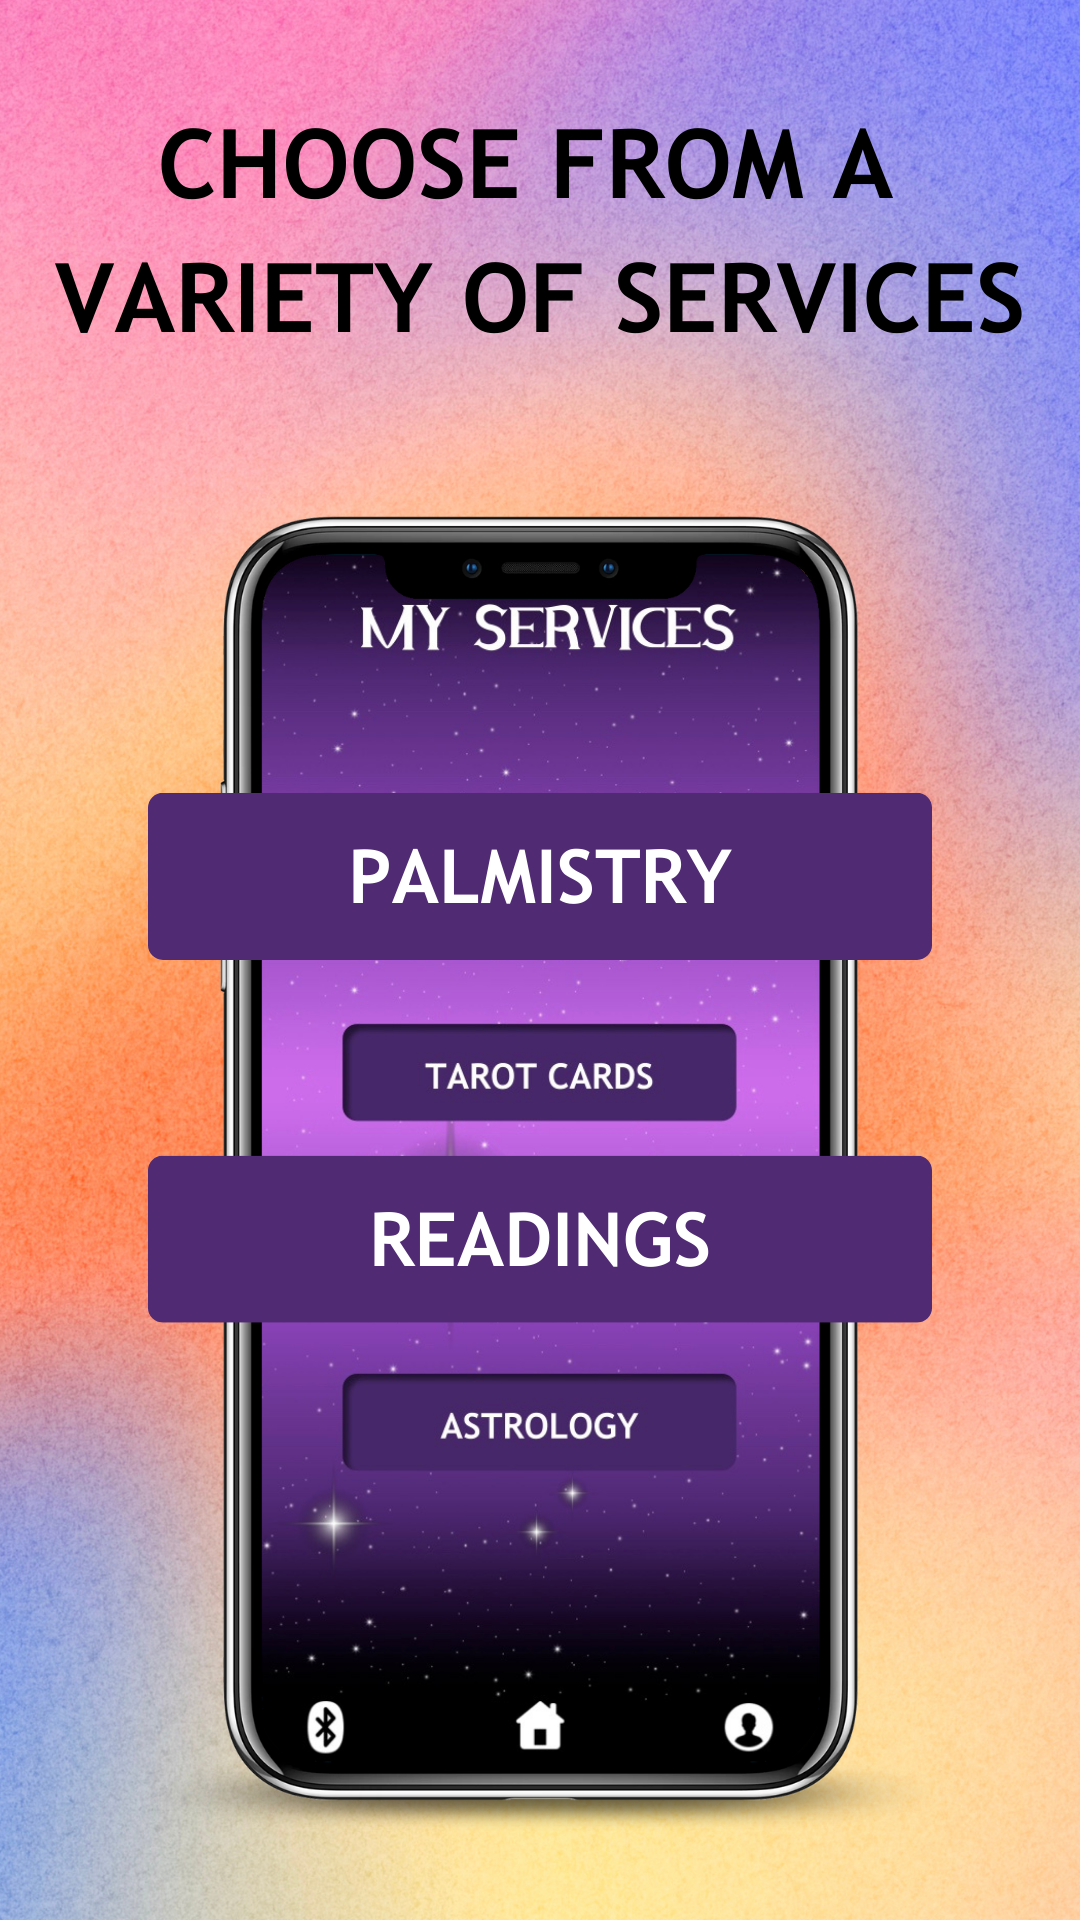
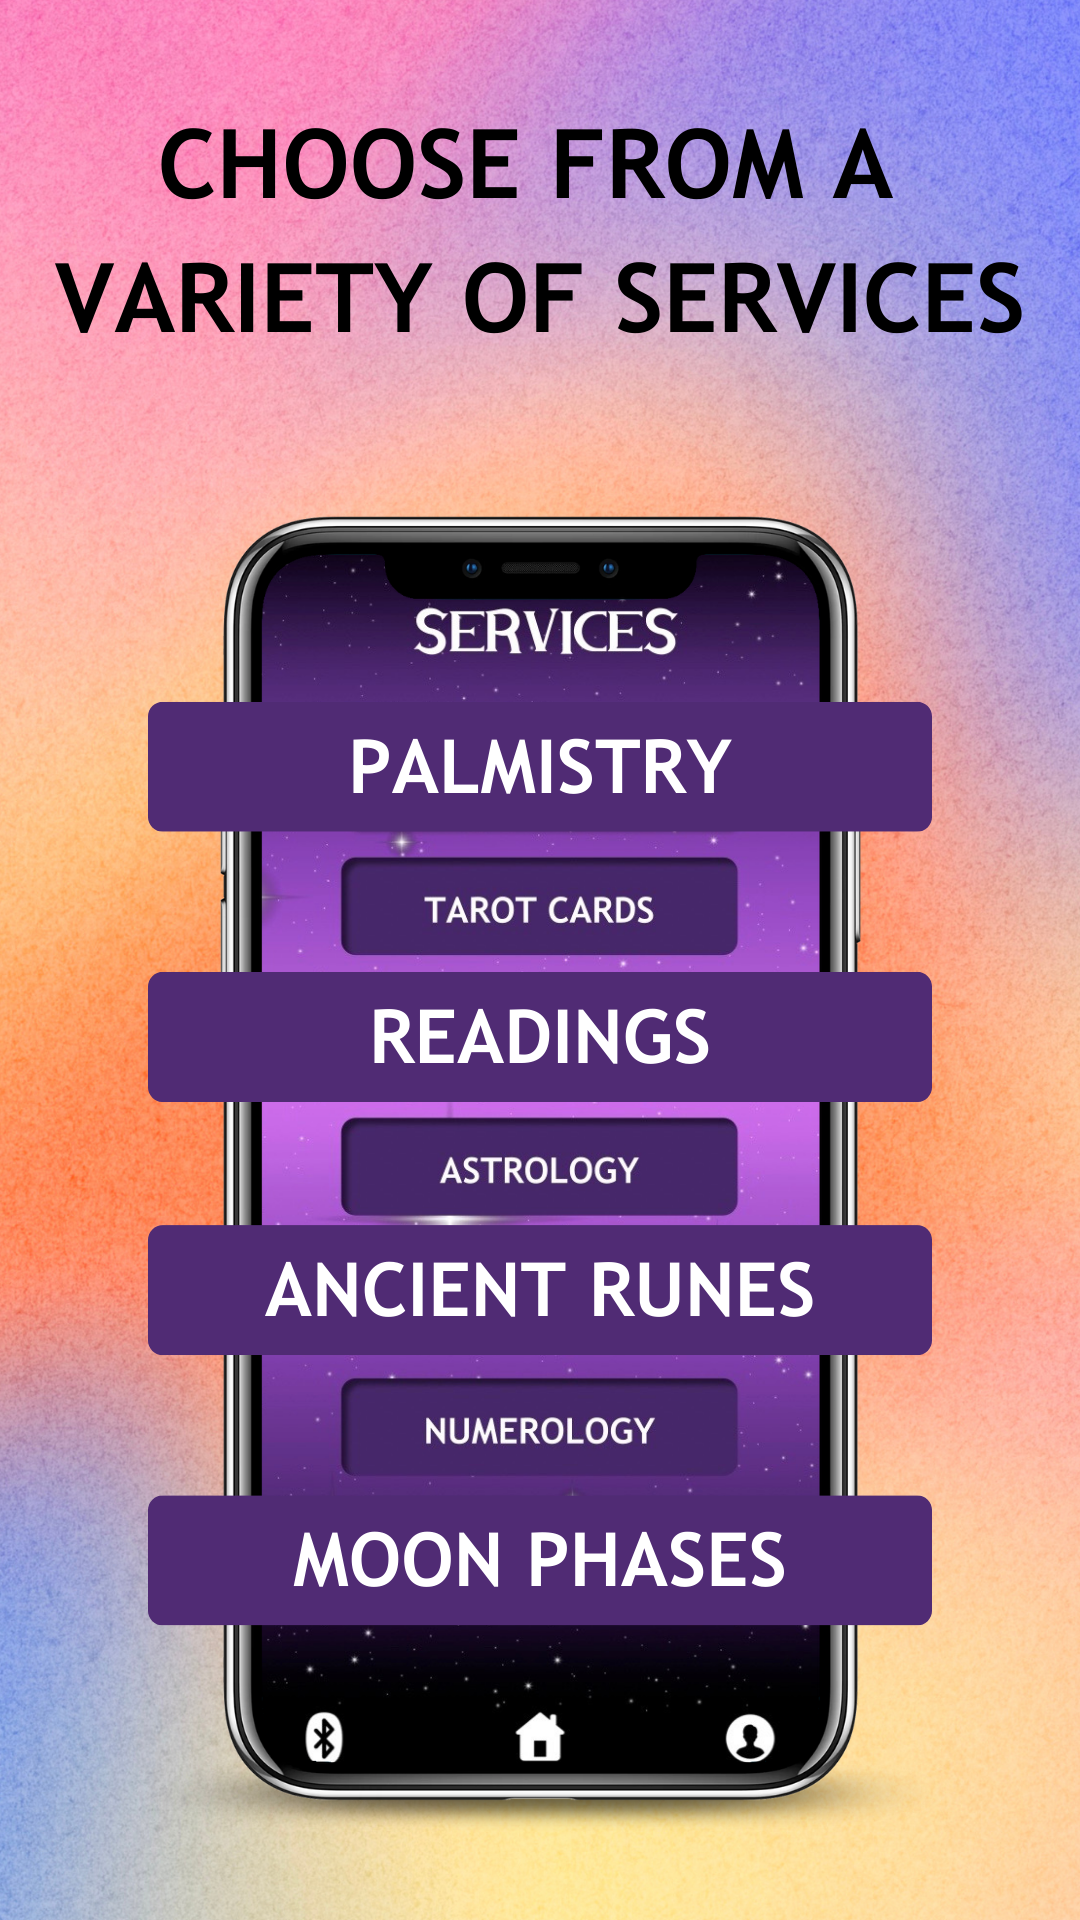
Updating slideshow images

Changed region(s): [[0.1222, 0.3438, 0.8861, 0.9375], [0.3361, 0.3125, 0.7028, 0.3438]]

diff --git a/web-stack/index.html b/web-stack/index.html
@@ -75,6 +75,12 @@
     <div class="mySlides fade img-fluid">
         <img src="Slide 6.png" style="width:100%" alt="Slide6">
     </div>
+    <div class="mySlides fade img-fluid">
+        <img src="Slide 7.png" style="width:100%" alt="Slide6">
+    </div>
+    <div class="mySlides fade img-fluid">
+        <img src="Slide 8.png" style="width:100%" alt="Slide6">
+    </div>
     <!-- Next and previous buttons -->
     <a class="prev white" onclick="plusSlides(-1)">&#10094;</a>
     <a class="next white" onclick="plusSlides(1)">&#10095;</a>
